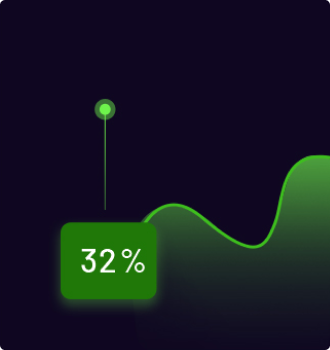
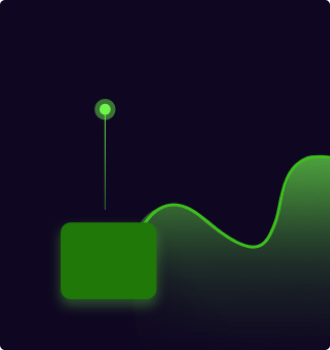
Goal progress percent part fix

Changed region(s): [[0.2424, 0.6857, 0.4545, 0.8]]

diff --git a/src/assets/scss/mynodes/mynodes.scss b/src/assets/scss/mynodes/mynodes.scss
@@ -104,6 +104,7 @@
         color: #fff;
       }
       .card2 {
+        position: relative;
         max-width: 330px;
         width: 100%;
         height: 350px;
@@ -111,10 +112,24 @@
         background-position: center;
         background-size: cover;
         background-repeat: no-repeat;
+
         @media (max-width: 1400px) {
           margin-top: 30px;
           max-width: 465px;
           height: 350px;
+        }
+
+        .goal--progress__percent {
+          position: absolute;
+          bottom: 18%;
+          left: 23%;
+          color: white;
+          font-size: 2.1rem;
+          font-weight: 300;
+
+          @media (max-width: 1400px) {
+            bottom: 8%;
+          }
         }
       }
       .card4 {

diff --git a/src/components/MyNodes/NodeCards.js b/src/components/MyNodes/NodeCards.js
@@ -8,7 +8,12 @@ const NodeCards = ({ userStats }) => {
           {/* <div className="card-value">125.1248</div> */}
         </div>
         <div className="card2">
-          <div className="card-title">$Total Node Account</div>
+          <div className="card-title">
+            <div>$Total Node Account</div>
+            <div className="goal--progress__percent">
+              {userStats?.goalProgressPercent}&nbsp;%
+            </div>
+          </div>
           <div className="card-value">{userStats?.totalNodeCount}</div>
           {/* <div className="card-value">125.1248</div> */}
         </div>
